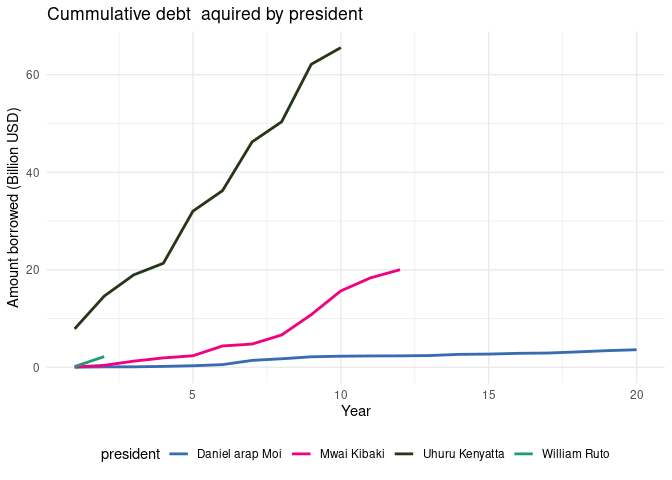
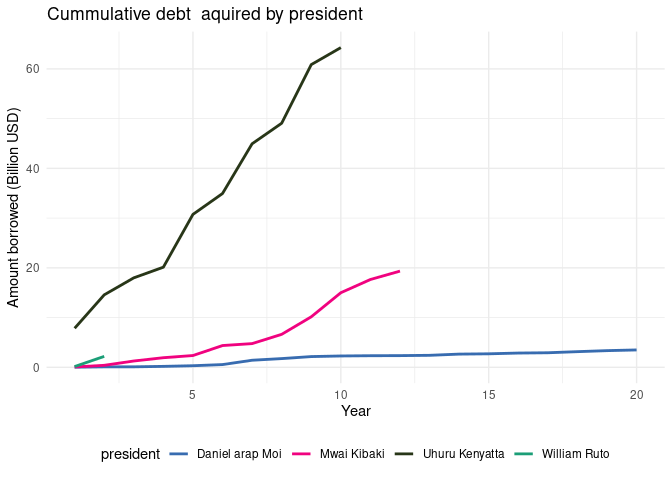
fix curr,for USD

diff --git a/README.md b/README.md
@@ -23,7 +23,7 @@ Kenya External Debt Register
 
 ![](README_files/figure-gfm/unnamed-chunk-1-1.png)<!-- -->
 
-## Loan Duration by President
+## Loan maturity time by President
 
 ![](README_files/figure-gfm/unnamed-chunk-2-1.png)<!-- -->
 
@@ -31,7 +31,7 @@ Kenya External Debt Register
 
 ![](README_files/figure-gfm/unnamed-chunk-3-1.png)<!-- -->
 
-## Histogram of loan duration by creditor category
+## Histogram of loan maturity by creditor category
 
 ![](README_files/figure-gfm/unnamed-chunk-4-1.png)<!-- -->
 
@@ -53,5 +53,28 @@ Kenya External Debt Register
 
 ## Loans Still to Convert to USD
 
-| loan_ref_number | creditor_name | agreement_date | org_financed_amount | revised_financed_amount | curr |
-|:----------------|:--------------|:---------------|--------------------:|------------------------:|:-----|
+| loan_ref_number | creditor_name                         | agreement_date | org_financed_amount | revised_financed_amount | curr |
+|:----------------|:--------------------------------------|:---------------|--------------------:|------------------------:|:-----|
+| 1983029_1       | African Development Fund              | 1983-05-11     |              296513 |                  296513 | INR  |
+| 2000005_1       | Agence Francaise De Development       | 2000-07-04     |            15000000 |                13158482 | EUR  |
+| 2001007_1       | Government of China                   | 2001-07-16     |            50000000 |                50000000 | CNY  |
+| 2002005_1       | Government of China                   | 2002-04-24     |            50000000 |                50278653 | CNY  |
+| 2007013_1       | KUWAIT FUND FOR ARAB ECONOMIC         | 2007-12-13     |             6000000 |                 6000000 | KWD  |
+| 2010014_1       | International Development Association | 2010-07-05     |            15500000 |                15124563 | XDR  |
+| 2010015_1       | International Development Association | 2010-07-05     |           217400000 |               217400000 | XDR  |
+| 2010016_1       | International Development Association | 2010-07-05     |            66200000 |               123241901 | XDR  |
+| 2010016_2       | International Development Association | 2010-07-05     |            66200000 |               123241901 | XDR  |
+| 2010016_3       | International Development Association | 2010-07-05     |            66200000 |               123241901 | XDR  |
+| 2010013_1       | KUWAIT FUND FOR ARAB ECONOMIC         | 2010-09-20     |             5900000 |                 4614430 | KWD  |
+| 2010026_1       | Cooperation                           | 2010-11-25     |            36730000 |                31060530 | AED  |
+| 2011021_1       | International Development Association | 2011-02-27     |            35000000 |                34977024 | XDR  |
+| 2012012_1       | KUWAIT FUND FOR ARAB ECONOMIC         | 2012-01-01     |             4500000 |                 4500000 | KWD  |
+| 2013032_1       | Cooperation                           | 2013-09-23     |            36730000 |                36730000 | AED  |
+| 2015025_1       | International Development Association | 2015-01-01     |           131800000 |                74200000 | XDR  |
+| 2015012_1       | Exim Bank of China                    | 2015-08-31     |           867293233 |               866358433 | CNY  |
+| 2015035_1       | International Development Association | 2015-09-07     |            41300000 |                 2159695 | XDR  |
+| 2016042_1       | International Development Association | 2016-07-04     |           105900000 |               105900000 | XDR  |
+| 2016043_1       | International Development Association | 2016-07-04     |           106500000 |               106500000 | XDR  |
+| 2016047_1       | International Development Association | 2016-07-04     |            12800000 |                12800000 | XDR  |
+| 2017021_1       | International Development Association | 2017-05-29     |            73900000 |                73900000 | XDR  |
+| 2018005_1       | KUWAIT FUND FOR ARAB ECONOMIC         | 2018-05-15     |             7000000 |                 7000000 | KWD  |
